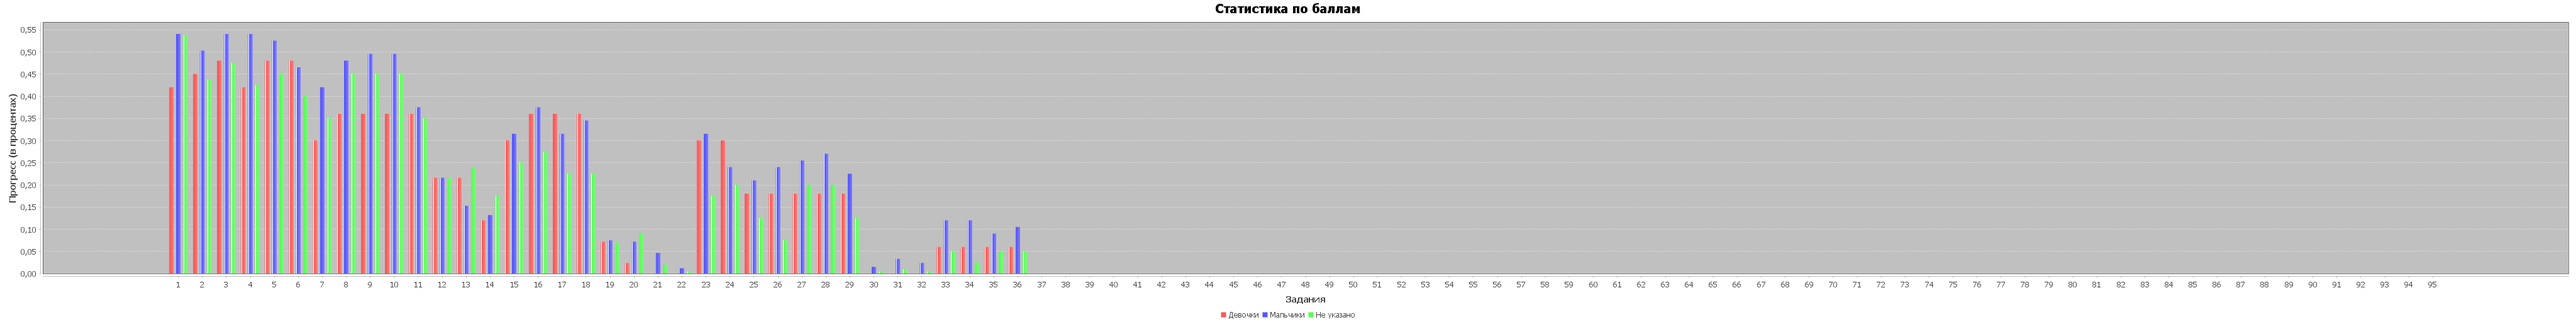
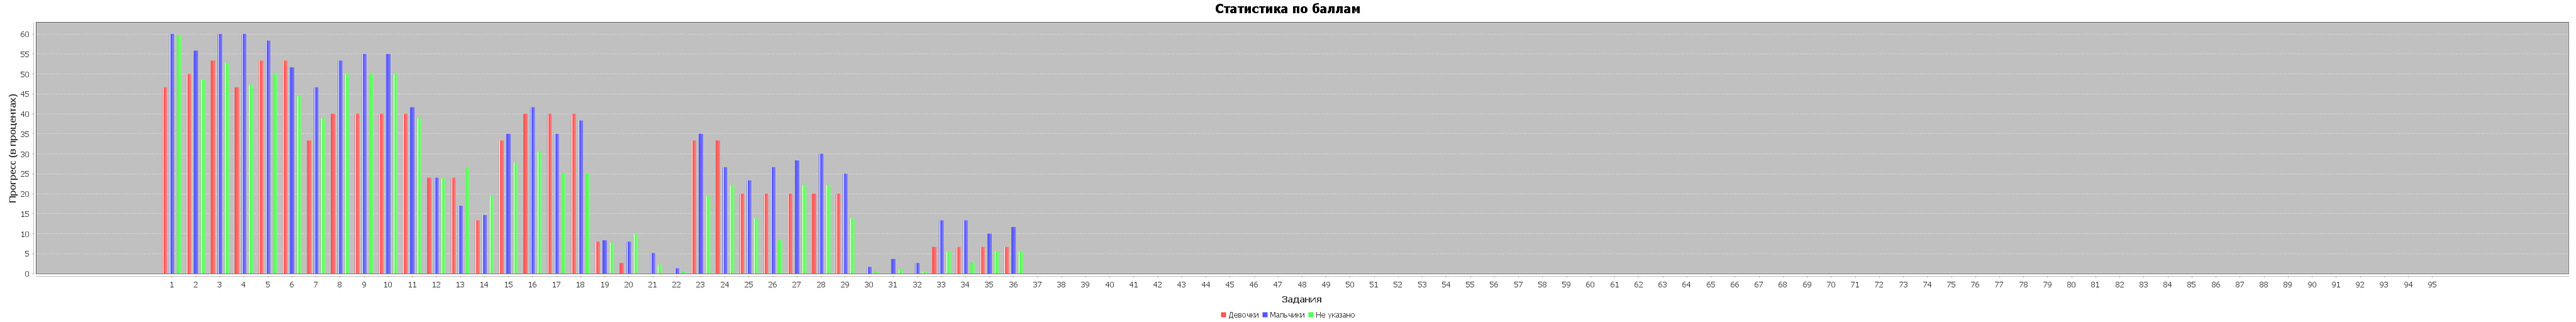
Исправление по половой характеристике

diff --git a/src/main/java/ChartController.java b/src/main/java/ChartController.java
@@ -81,11 +81,6 @@ public class ChartController {
         var tasksScoresBoys = new int[tasksTitles.length][];
         var tasksScoresGirls = new int[tasksTitles.length][];
         var tasksScoresNone = new int[tasksTitles.length][];
-        for (var i = 0; i < tasksMaxScores.length; i++) {
-            for (var j = 0; j < tasksMaxScores[i].length; j++) {
-                tasksMaxScores[i][j] *= neededStudents.size();
-            }
-        }
         var boysCount = 0;
         var girlsCount = 0;
         var noneCount = 0;
